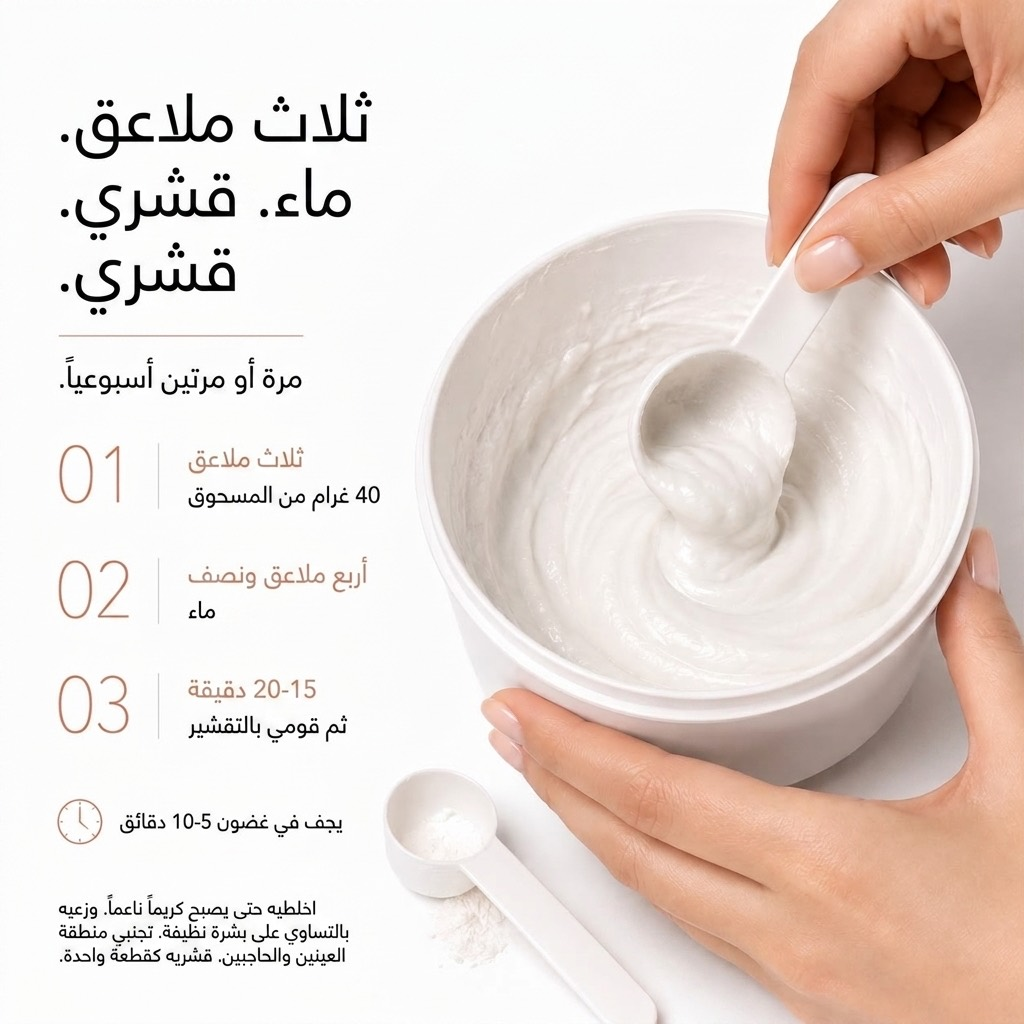
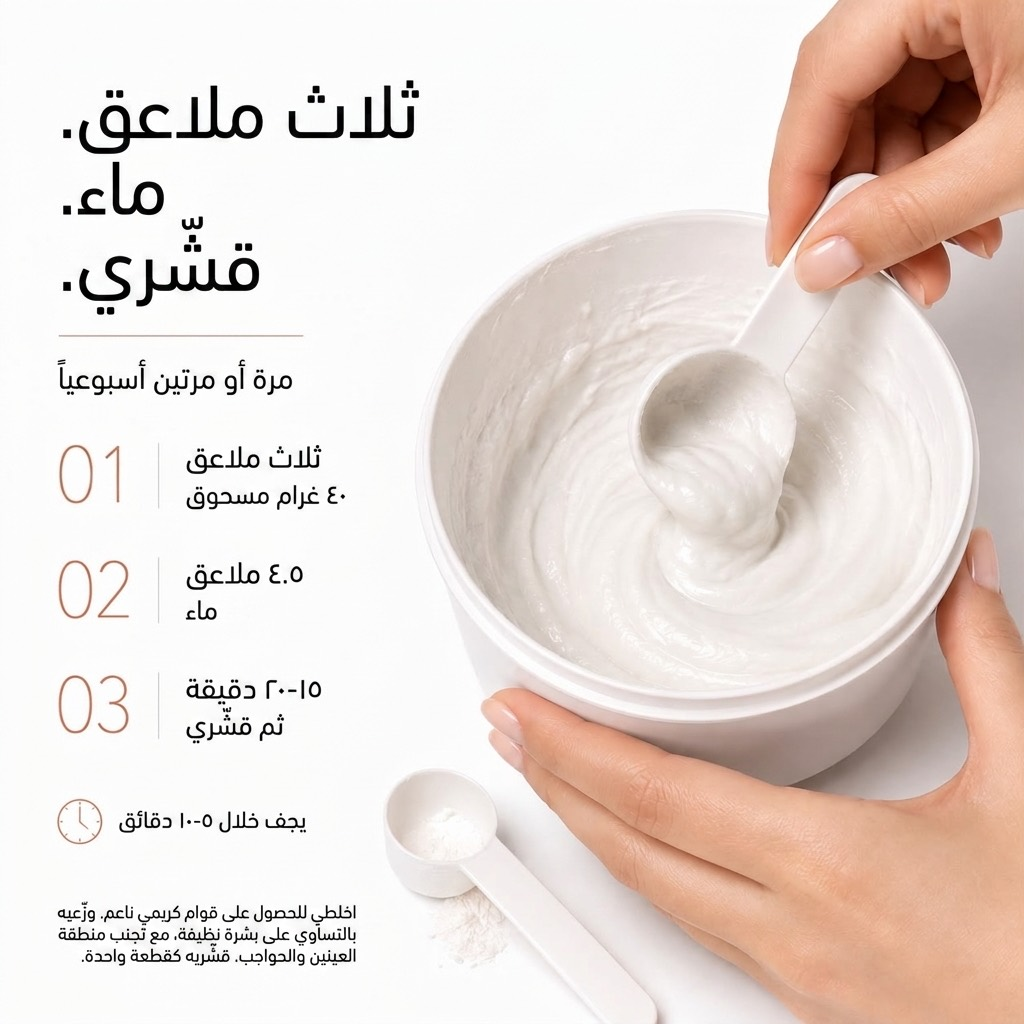
Register corrected Arabic and Russian s7 and Closing for product 51
The reissued exports fix the garbled headlines, drop the occlusion claim the
Russian slide had invented, and make the jar label legible, so all eight slides
now localize instead of falling back to English for the last two.

diff --git a/lib/localizedProductImages.ts b/lib/localizedProductImages.ts
@@ -51,21 +51,19 @@ const LOCALIZED_SLIDES: Record<string, Partial<Record<Locale, readonly string[]>
     ru: ['s1.jpg', 's2.jpg', 's3.jpg', 's4.jpg', 's5.jpg', 's6.jpg', 's7.jpg', 'closing.jpg'],
     ar: ['s1.jpg', 's2.jpg', 's3.jpg', 's4.jpg', 's5.jpg', 's6.jpg', 's7.jpg', 'closing.jpg'],
   },
+  // Product 51, BIO-FERMENT AGE DEFYING POWDER MASK. main.jpeg is a plain
+  // packshot and is not translated. s7 and Closing were held back on the first
+  // pass over a garbled headline and an unreadable jar label; the corrected
+  // exports replaced both files and the full set is registered.
+  '/images/bio_ferment2': {
+    ru: ['s1.jpeg', 's2.jpeg', 's3.jpeg', 's4.jpeg', 's5.jpeg', 's6.jpeg', 's7.jpeg', 'Closing.jpeg'],
+    ar: ['s1.jpeg', 's2.jpeg', 's3.jpeg', 's4.jpeg', 's5.jpeg', 's6.jpeg', 's7.jpeg', 'Closing.jpeg'],
+  },
   // Product 64, HR3 MATRIX HAIR STAMP. Main.jpeg is a plain packshot and is not
   // translated. The first Russian s1 was withheld for a missing glyph after each
   // product name; the corrected export landed the same day and is registered here.
   // s1b is the refreshed opening slide: /images is served immutable for a year,
   // so the reissued artwork had to take a new name rather than replace s1.jpeg.
-  // Product 51, BIO-FERMENT AGE DEFYING POWDER MASK. main.jpeg is a plain
-  // packshot and is not translated. s7 and Closing are on disk but deliberately
-  // unregistered in both languages, so they fall back to English: the s7 headline
-  // is garbled in both exports (Russian strands "ВОДА." mid-sentence, Arabic
-  // repeats "قشري"), and both Closing shots render the jar label as nonsense Latin
-  // where the English original is legible.
-  '/images/bio_ferment2': {
-    ru: ['s1.jpeg', 's2.jpeg', 's3.jpeg', 's4.jpeg', 's5.jpeg', 's6.jpeg'],
-    ar: ['s1.jpeg', 's2.jpeg', 's3.jpeg', 's4.jpeg', 's5.jpeg', 's6.jpeg'],
-  },
   '/images/needles2': {
     ru: ['s1b.jpeg', 's2.jpeg', 's3.jpeg', 's4.jpeg', 's5.jpeg', 'closing.jpeg'],
     ar: ['s1b.jpeg', 's2.jpeg', 's3.jpeg', 's4.jpeg', 's5.jpeg', 'closing.jpeg'],

diff --git a/docs/SESSION_CHANGES_2026-08-22_PRODUCT_51_SLIDES.md b/docs/SESSION_CHANGES_2026-08-22_PRODUCT_51_SLIDES.md
@@ -66,16 +66,22 @@ render, and the mobile routes read the same manifest through `x-locale`.
 
 `main.jpeg` has no text on it and is not translated.
 
-Four files are on disk but deliberately unregistered, so those slots fall back
-to English:
+Four files were held back on the first pass and fell back to English: `ru/s7`
+and `ar/s7` had garbled headlines (Russian stranded "ВОДА." mid-sentence and
+added "создавая окклюзию", a claim the English slide does not make; Arabic
+repeated "قشري"), and both `Closing` shots rendered the jar label as nonsense
+Latin.
 
-- `ru/s7` and `ar/s7` — the headline is garbled in both. Russian strands
-  "ВОДА." mid-sentence inside an unrelated line, and Arabic repeats "قشري"
-  twice where the English reads "THREE SCOOPS. WATER. PEEL." The Russian export
-  also adds "создавая окклюзию", a claim the English slide does not make.
-- `ru/Closing` and `ar/Closing` — both render the jar label as nonsense Latin
-  ("BEIMATOLEISGICALLY TB1ED", "Gene Re-hinth System") where the English
-  original is legible. The jar is the subject of that slide.
+## Corrected s7 and Closing (24 August)
+
+Reissued exports replaced all four files and the full set is now registered in
+both languages. The headlines read correctly, the invented Russian occlusion
+claim is gone, and the jar label is legible.
+
+One deviation remains in `ar/Closing`: the spec line reads
+"مُختبر من قبل أطباء الجلدية", tested by dermatologists, where the pack claim and
+the English card say dermatologically tested. Published at Vadim's instruction;
+worth correcting on the next export.
 
 Everything else was checked figure by figure against the English set: the
 composition percentages, 1 : 1.5, 5–10 minute set, −10 to −11 °C with the
